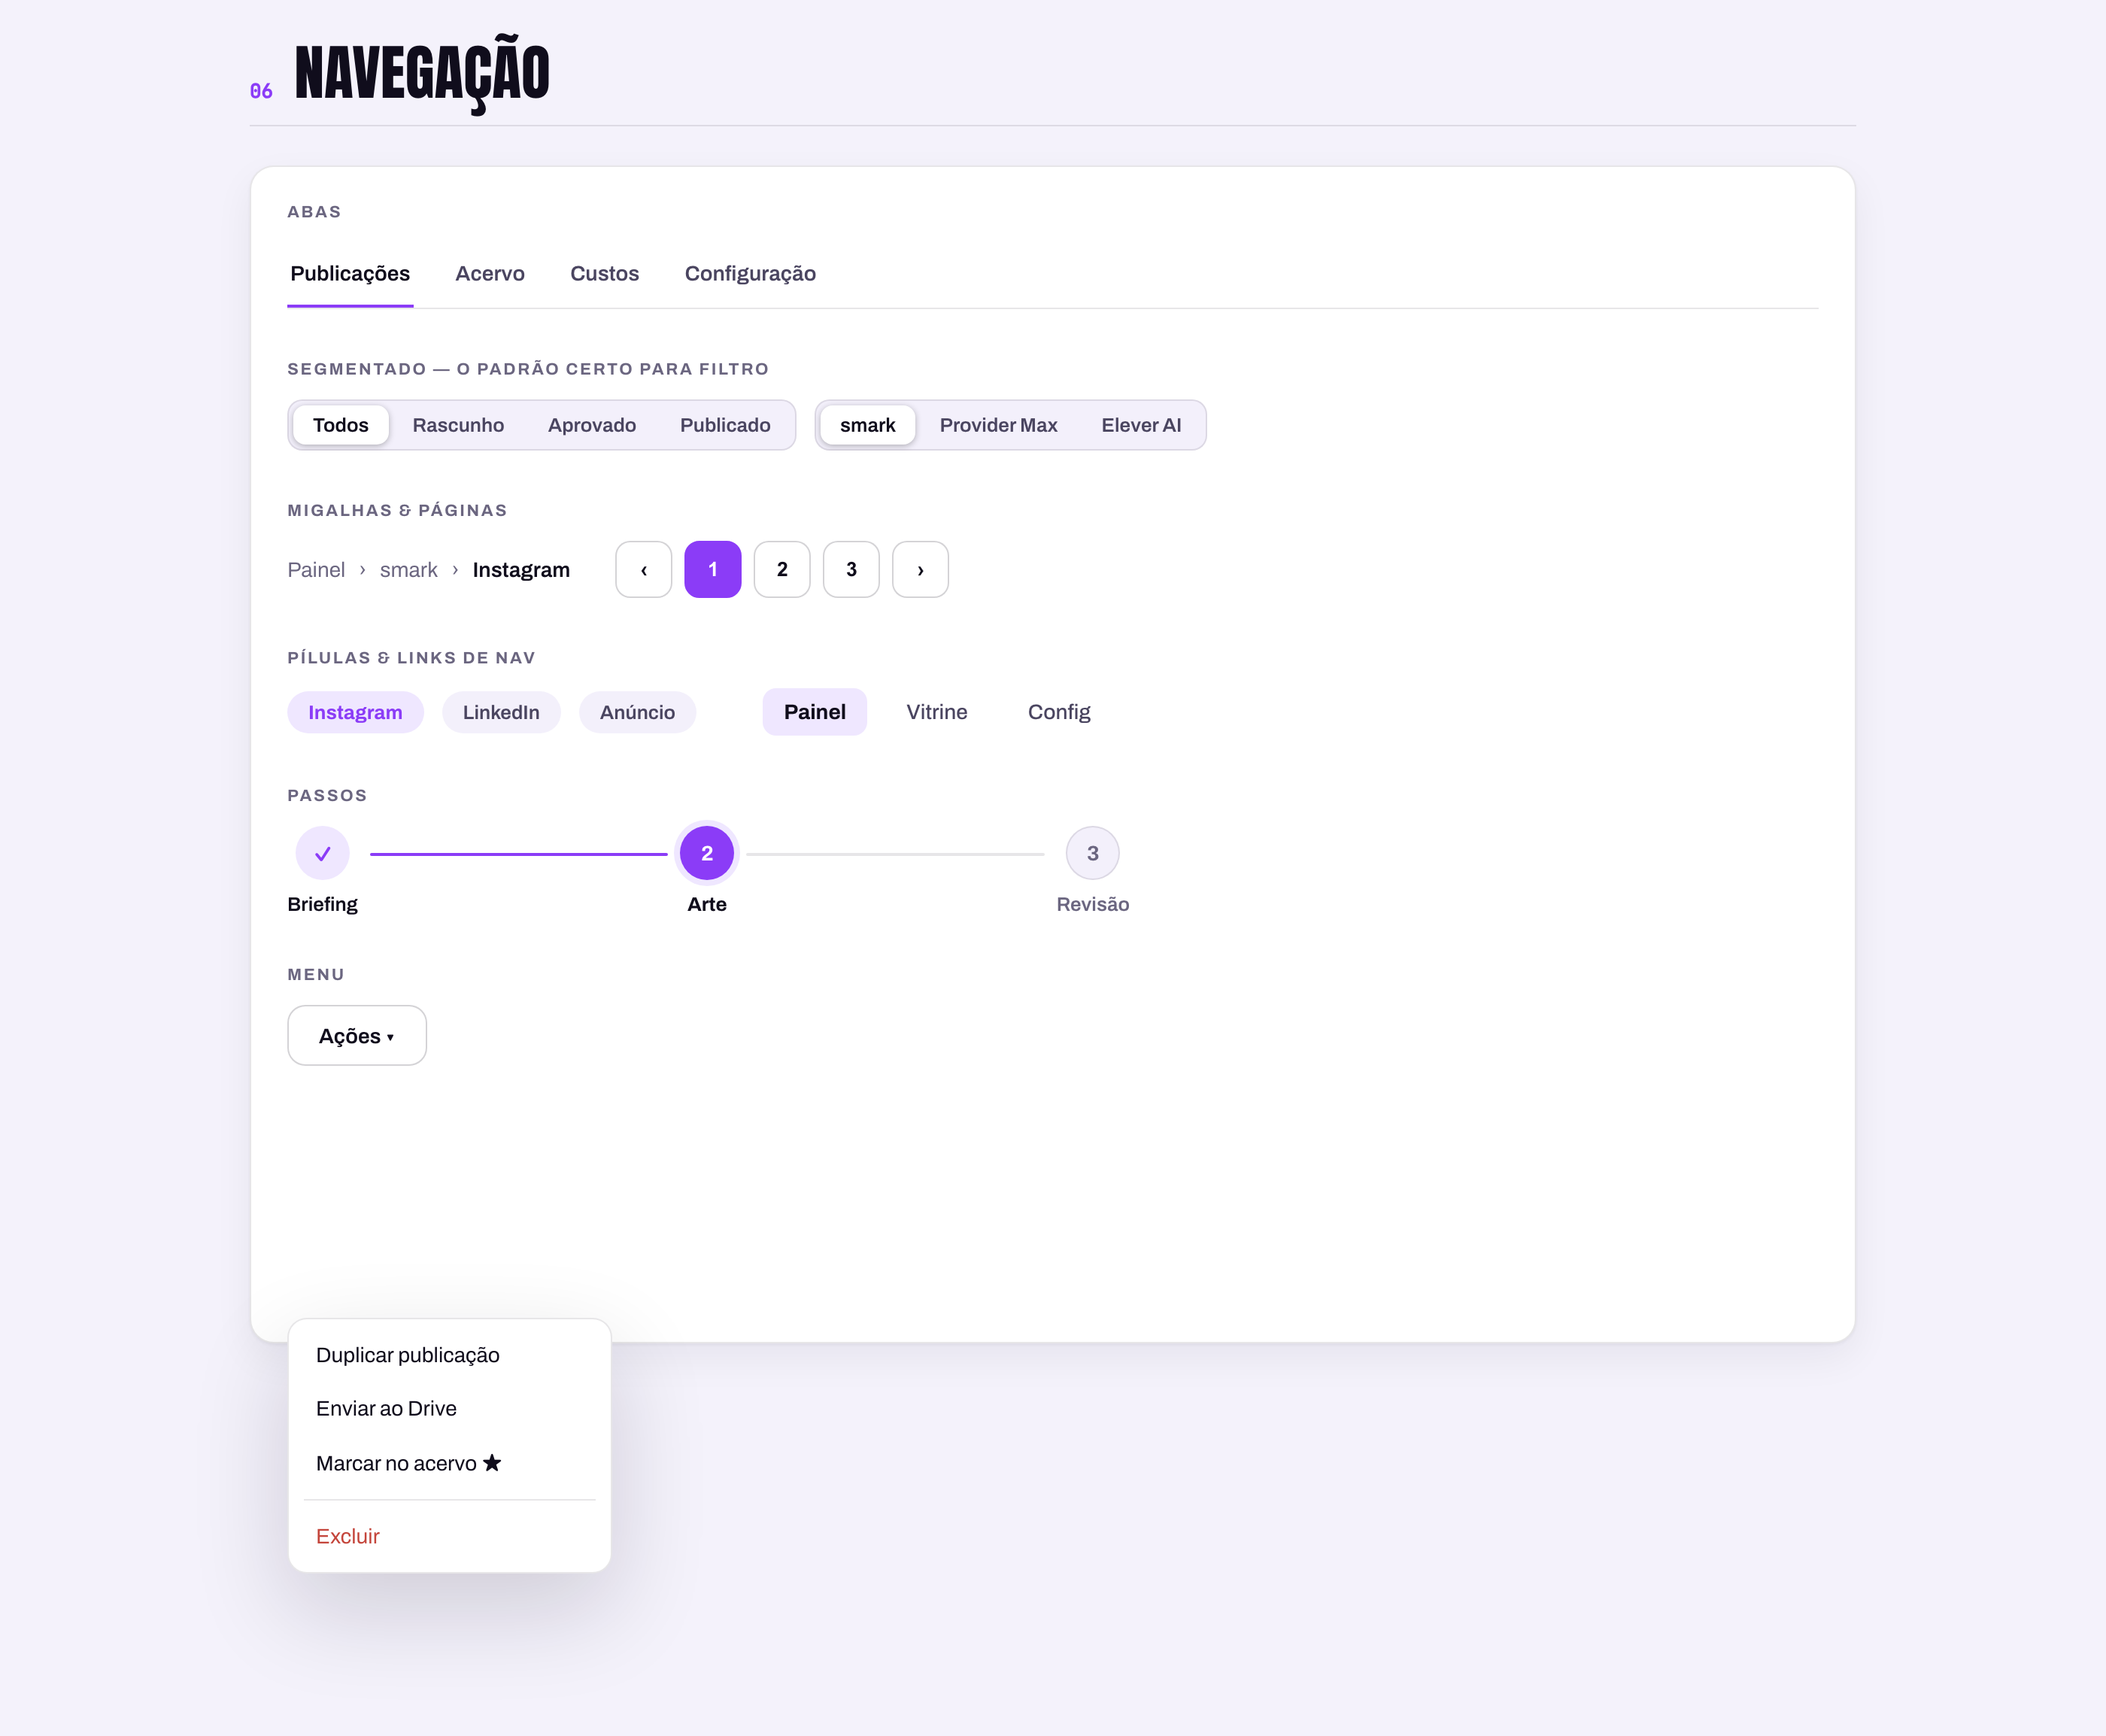
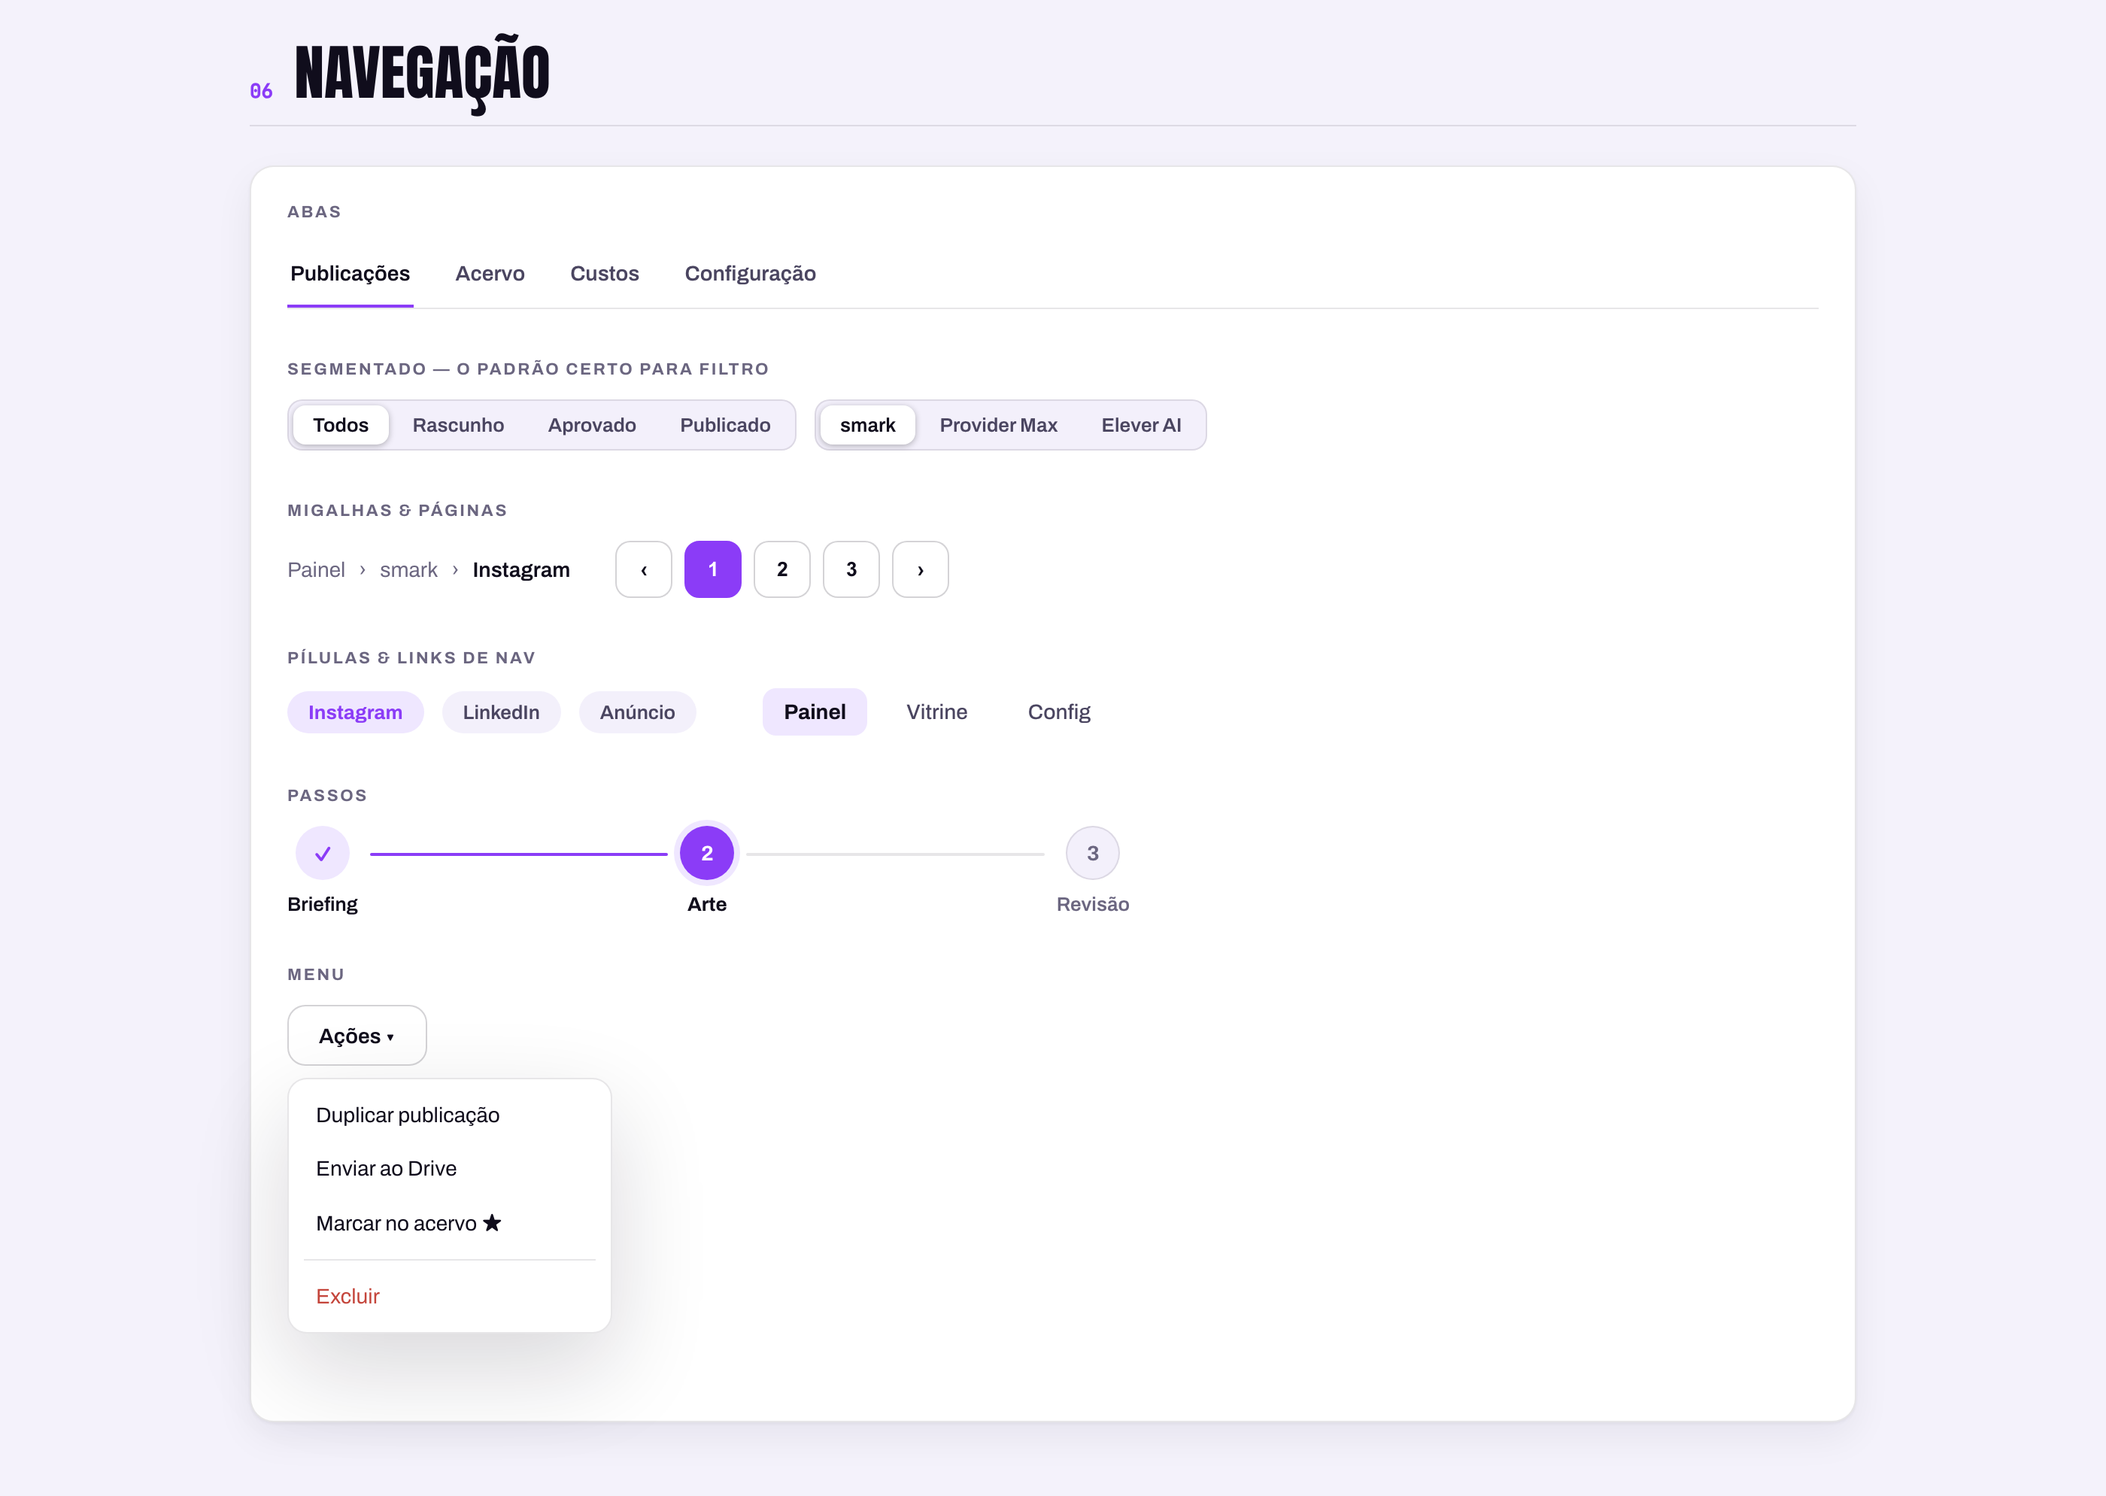
auto-save 2026-08-05 21:56:33

diff --git a/design-system/export/galeria.html b/design-system/export/galeria.html
@@ -314,7 +314,7 @@
       </div>
 
       <div class="g-sub">Menu</div>
-      <div class="sk-menu-wrap" style="height:200px">
+      <div class="sk-menu-wrap" style="margin-bottom:212px">
         <button class="sk-btn sk-btn--secondary">Ações ▾</button>
         <div class="sk-menu">
           <div class="sk-menu-item">Duplicar publicação</div>
